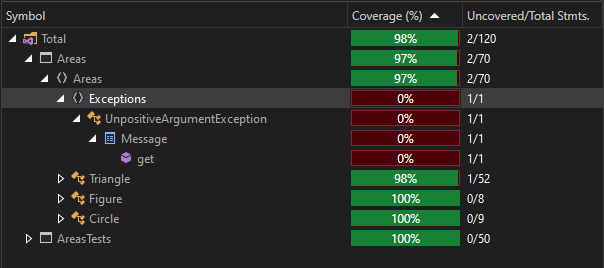
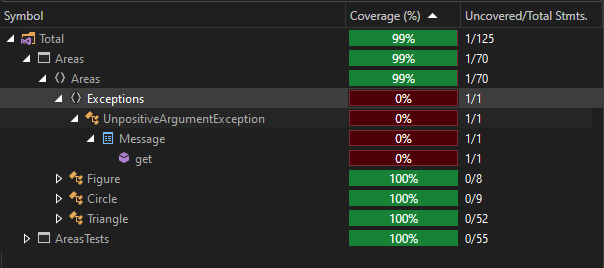
tests: добавлен тест проверки что треугольник прямоугольный

diff --git a/Areas/AreasTests/Tests/TriangleTests.cs b/Areas/AreasTests/Tests/TriangleTests.cs
@@ -61,6 +61,15 @@ namespace AreasTests.Tests
             Assert.Throws<UnpositiveArgumentException>(() => Area(a, b, c));
         }
 
+        [TestCase(3, 4, 5, true)]
+        [TestCase(2, 1, 2, false)]
+        public void IsRight_AnyLines_RightResult(double a, double b, double c, bool expected)
+        {
+            var triangle = new Triangle(a, b, c);
+            var actual = triangle.IsRight;
+            Assert.That(expected, Is.EqualTo(actual));
+        }
+
         private static double Area(double a, double b, double c)
         {
             var triangle = new Triangle(a, b, c);
